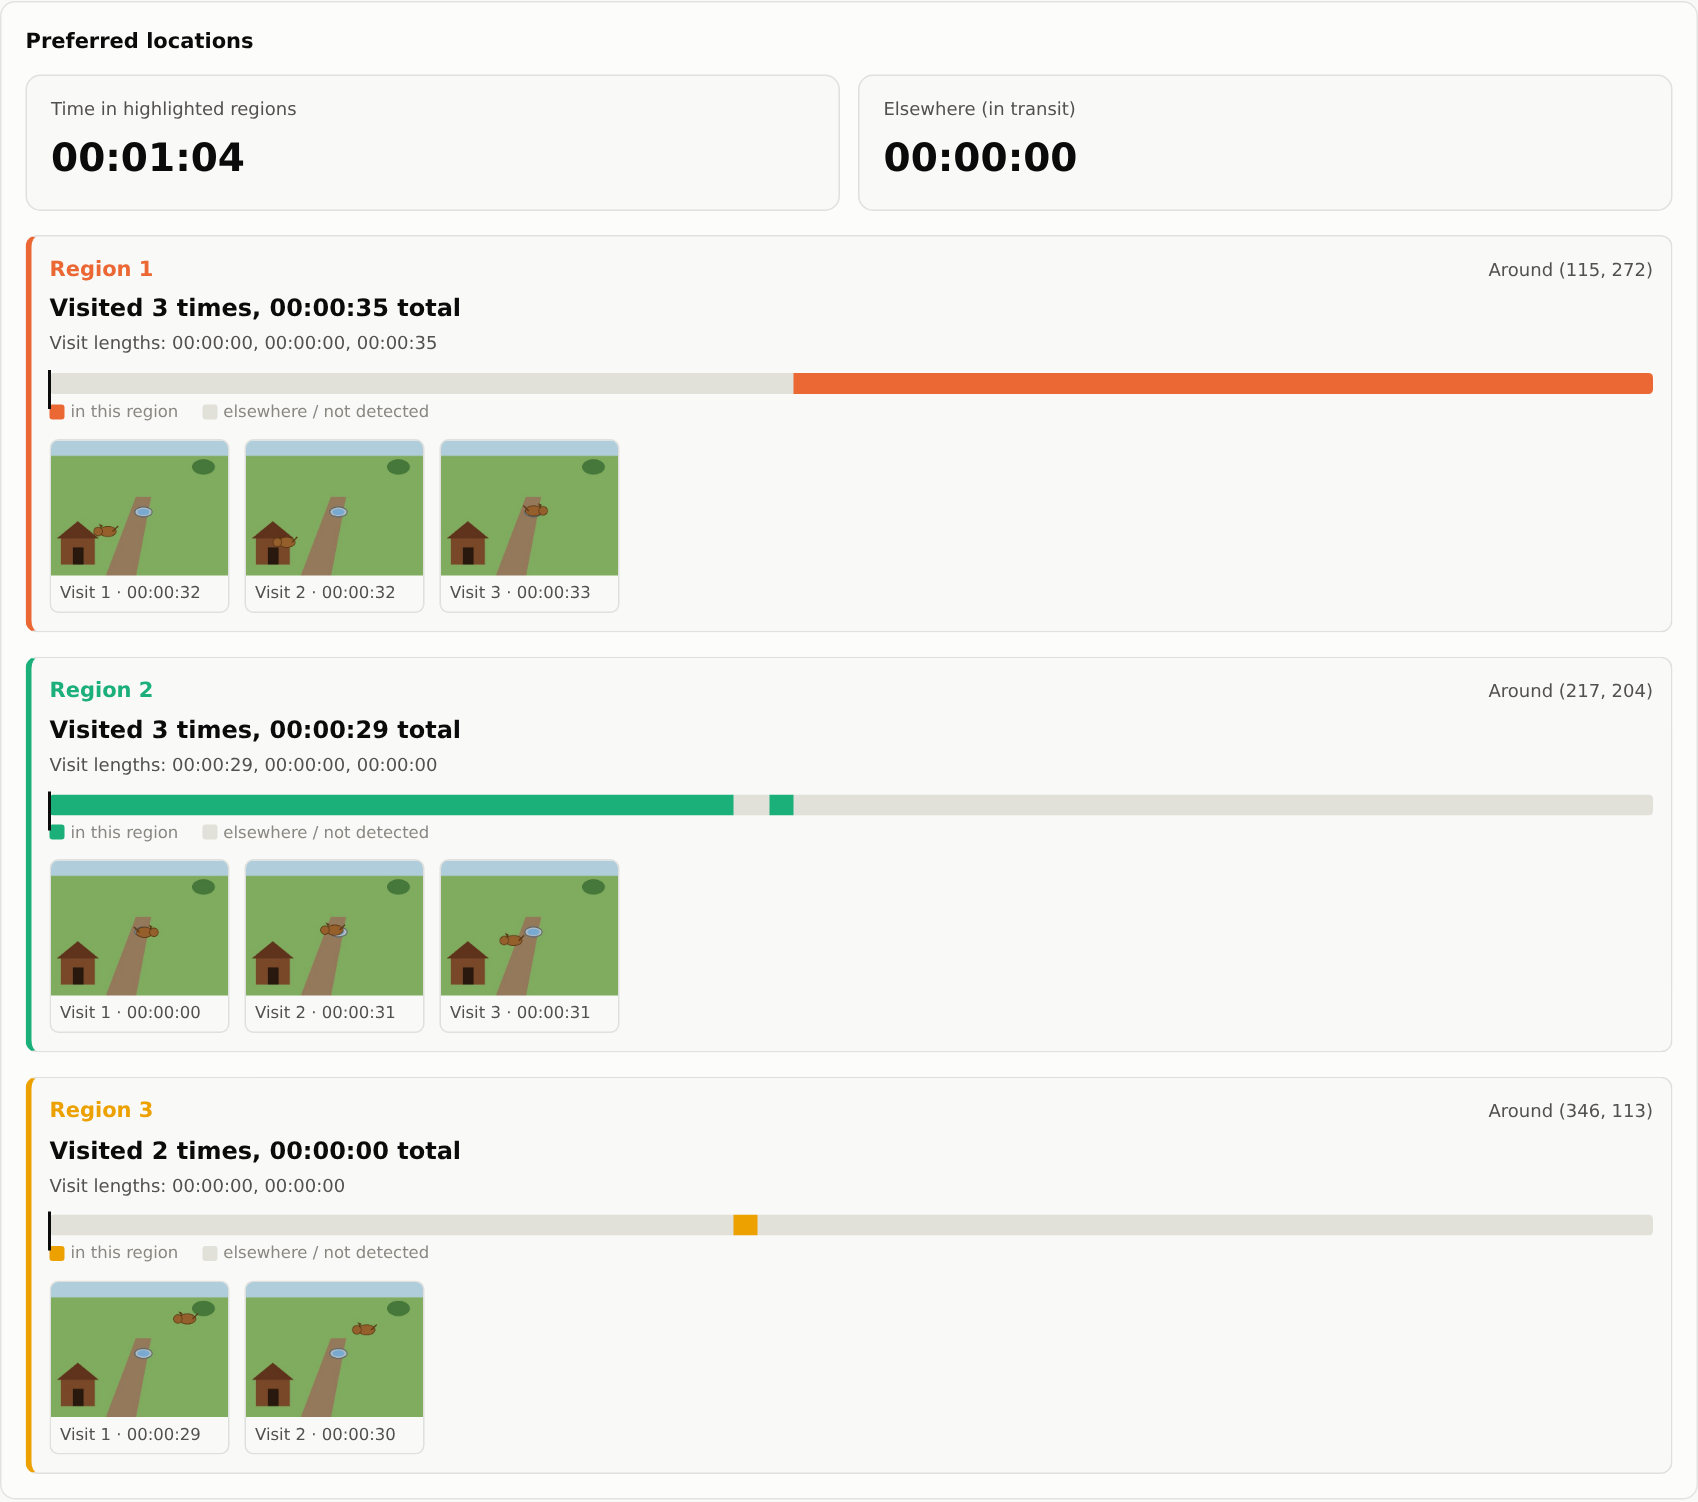
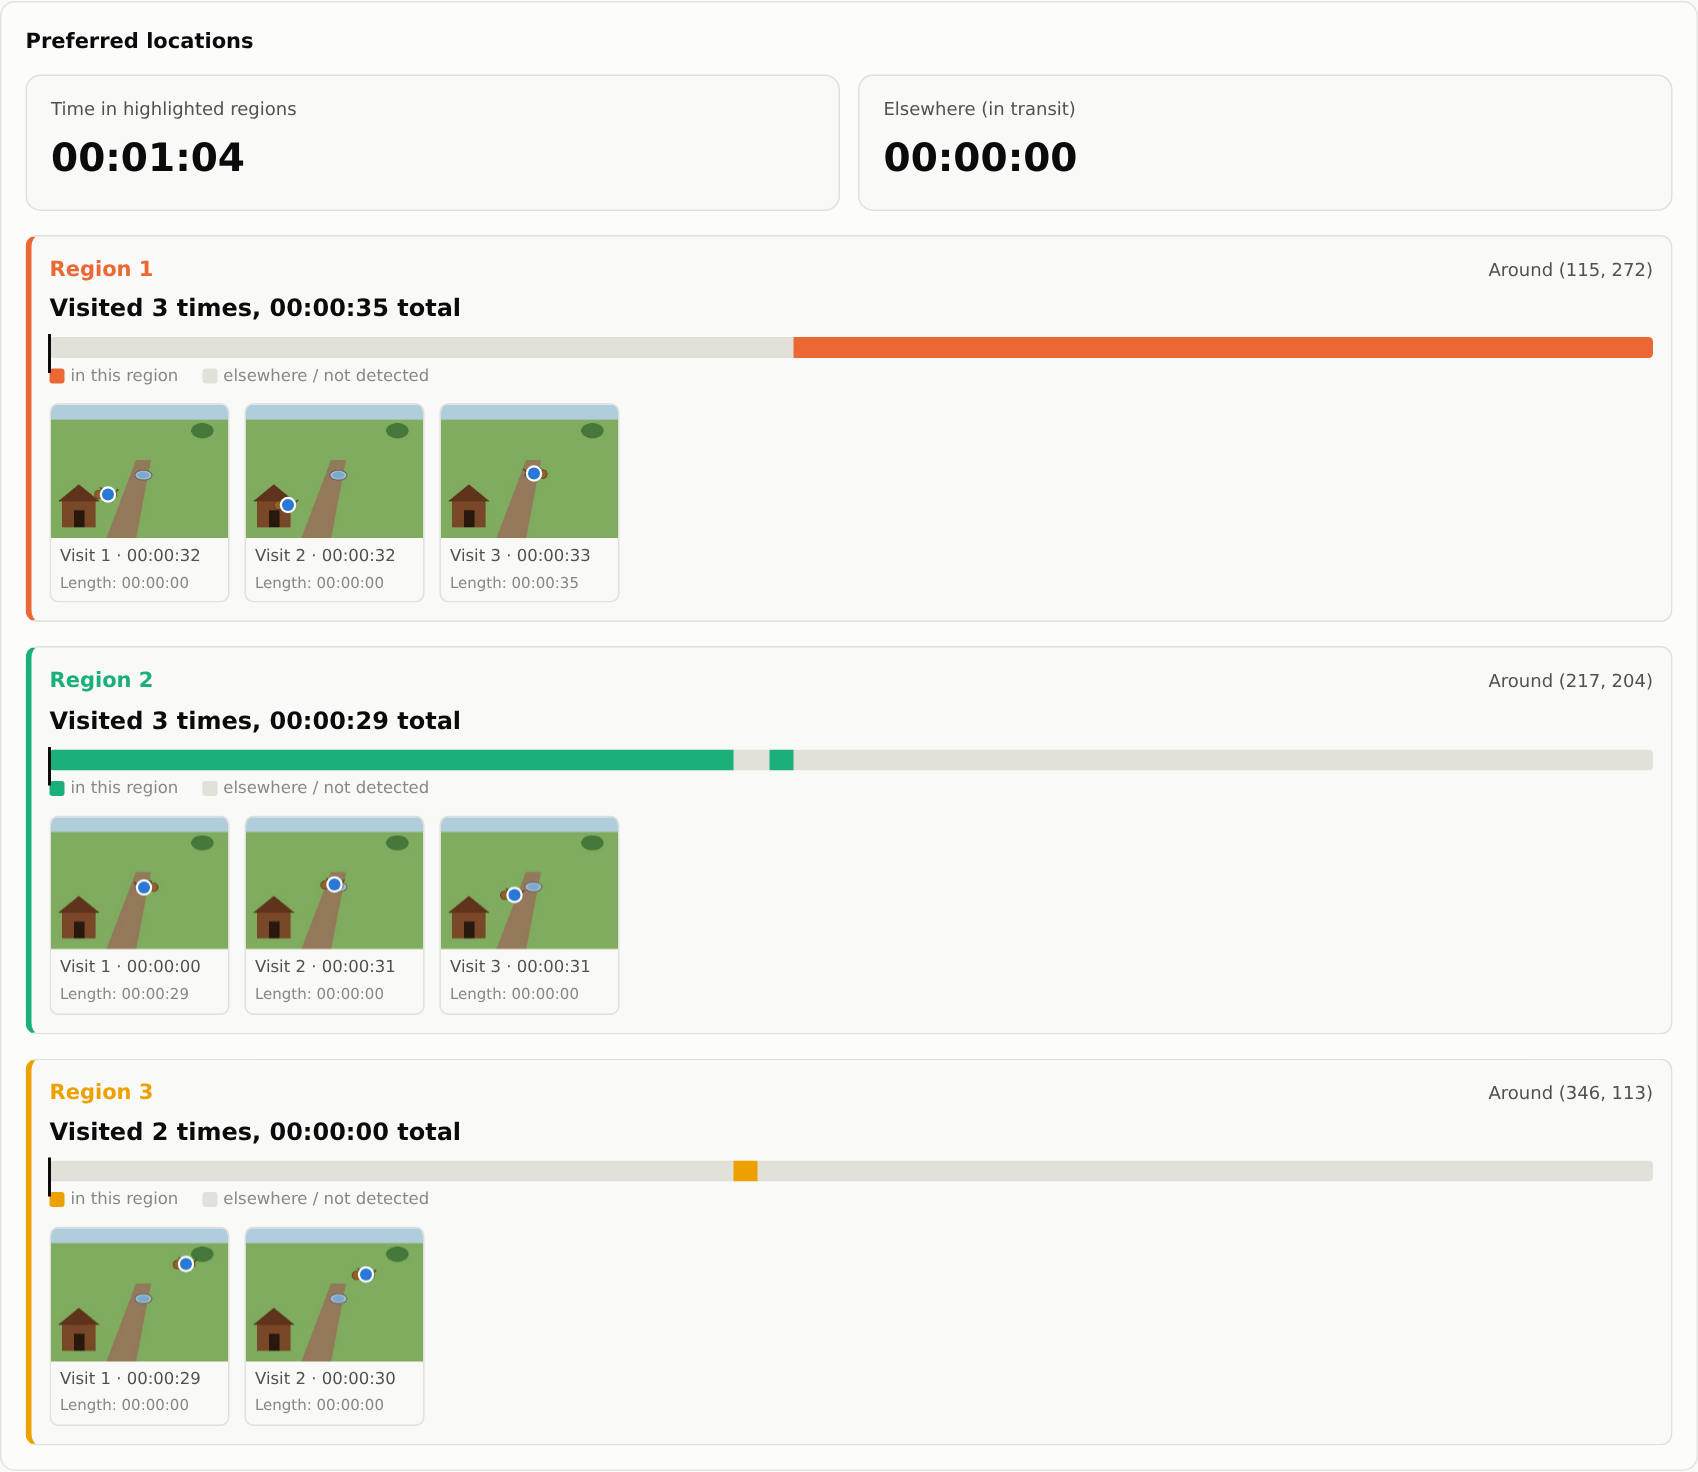
Move visit length onto each thumbnail and mark the dog's position on it
Replaced the single combined "Visit lengths: ..." line above each region's
thumbnail strip with a per-thumbnail caption (each thumbnail already shows
which visit and when it started; now also how long that visit lasted).

Each thumbnail also gets a dot at the dog's exact detected center, same
point used everywhere else (heatmap, frame browser). This needed switching
.thumb img from a fixed-height object-fit:cover crop to width:100%/
height:auto, matching the no-crop pattern already used for the heatmap and
frame-browser images -- percentage-based dot placement only lines up
correctly when the displayed image isn't cropped. The dot's positioning
context is a dedicated image-only wrapper, not the whole thumbnail card,
so it isn't computed against the caption text's height too.

diff --git a/dogtracker_pc/static/app.js b/dogtracker_pc/static/app.js
@@ -533,17 +533,47 @@
     renderKPIs();
   }
 
-  function thumb(imgSrc, captionText, onClick) {
+  // `det` (optional) is the representative detection for this thumbnail --
+  // when given, a dot is drawn at its center, the same point used for the
+  // heatmap and the frame browser's own center marker. `subText` (optional)
+  // is a second caption line, e.g. the visit's length.
+  function thumb(imgSrc, captionText, subText, det, onClick) {
     const wrap = document.createElement("div");
     wrap.className = "thumb";
+
+    // The dot's left/top percentages are resolved against this wrapper, so
+    // it has to contain only the image (not the captions below) or the dot
+    // would land relative to the whole card's height instead of the image's.
+    const imgWrap = document.createElement("div");
+    imgWrap.className = "thumb-image-wrap";
     const img = document.createElement("img");
     img.src = imgSrc;
     img.alt = captionText;
     img.loading = "lazy";
+    imgWrap.appendChild(img);
+
+    if (det) {
+      const dot = document.createElement("div");
+      dot.className = "thumb-dot";
+      const { frame_width, frame_height } = state.summary;
+      dot.style.left = `${(det.x / frame_width) * 100}%`;
+      dot.style.top = `${(det.y / frame_height) * 100}%`;
+      imgWrap.appendChild(dot);
+    }
+    wrap.appendChild(imgWrap);
+
     const caption = document.createElement("div");
     caption.className = "caption";
     caption.textContent = captionText;
-    wrap.append(img, caption);
+    wrap.appendChild(caption);
+
+    if (subText) {
+      const sub = document.createElement("div");
+      sub.className = "caption-sub";
+      sub.textContent = subText;
+      wrap.appendChild(sub);
+    }
+
     wrap.addEventListener("click", onClick);
     return wrap;
   }
@@ -641,13 +671,6 @@
         ? `Visited once, for ${formatElapsed(region.avg_duration_ms)}`
         : `Visited ${region.visit_count} times, ${formatElapsed(region.total_duration_ms)} total`;
 
-    const lengths = document.createElement("div");
-    lengths.className = "area-card-lengths";
-    lengths.textContent =
-      region.visits.length > 0
-        ? `Visit lengths: ${region.visits.map((v) => formatElapsed(v.duration_ms)).join(", ")}`
-        : "";
-
     // Mini presence ruler -- same idea as the main detection-presence ruler
     // under the frame browser, scoped to just this region: colored (in this
     // region's own color) where the dog was here, empty everywhere else
@@ -686,12 +709,14 @@
         thumb(
           `/frames/${encodeURIComponent(visit.representative_filename)}`,
           `Visit ${i + 1} · ${formatElapsed(elapsedOf(visit.start_ts))}`,
+          `Length: ${formatElapsed(visit.duration_ms)}`,
+          state.detections[visit.representative_index],
           () => setCurrentIndex(frameIndexForDetectionIndex(visit.representative_index))
         )
       )
     );
 
-    card.append(header, headline, lengths, rulerWrap, rulerLegend, strip);
+    card.append(header, headline, rulerWrap, rulerLegend, strip);
     return card;
   }
 

diff --git a/dogtracker_pc/static/style.css b/dogtracker_pc/static/style.css
@@ -465,15 +465,9 @@ header.top .folder {
   margin-top: 4px;
 }
 
-.area-card-lengths {
-  font-size: 12px;
-  color: var(--text-secondary);
-  margin: 4px 0 10px;
-  font-variant-numeric: tabular-nums;
-}
-
 .area-card .thumb-strip {
   padding-bottom: 0;
+  margin-top: 8px;
 }
 
 .area-ruler-wrap {
@@ -516,11 +510,33 @@ header.top .folder {
   background: var(--page);
 }
 
+.thumb-image-wrap {
+  position: relative;
+}
+
 .thumb img {
   width: 100%;
-  height: 90px;
-  object-fit: cover;
+  height: auto;
   display: block;
+}
+
+.thumb-dot {
+  position: absolute;
+  width: 8px;
+  height: 8px;
+  margin-left: -4px;
+  margin-top: -4px;
+  border-radius: 50%;
+  background: var(--accent);
+  box-shadow: 0 0 0 1.5px var(--surface-1);
+  pointer-events: none;
+}
+
+.thumb .caption-sub {
+  font-size: 10px;
+  color: var(--text-muted);
+  padding: 0 6px 4px;
+  font-variant-numeric: tabular-nums;
 }
 
 .thumb .caption {

diff --git a/README.md b/README.md
@@ -33,11 +33,13 @@ footage -- generated for illustration purposes, see below.)*
   `.dogtracker_cache/manual_regions.json` so they're still there next time
   you open the same folder. "Regions to highlight" goes down to 0 if you'd
   rather see only manually-drawn regions and no automatic ones. Per region:
-  how many times it was visited, the length of every individual visit, the
-  total time spent there, and its own clickable **presence timeline** (in
-  the region's color, with the same current-frame marker line the frame
-  browser's own ruler has) showing exactly when across the whole session
-  the dog was there vs elsewhere. A summary line splits total tracked time
+  how many times it was visited and the total time spent there, a
+  thumbnail per visit (marked with a dot at the dog's exact position and
+  captioned with that visit's own length), and its own clickable
+  **presence timeline** (in the region's color, with the same current-frame
+  marker line the frame browser's own ruler has) showing exactly when
+  across the whole session the dog was there vs elsewhere. A summary line
+  splits total tracked time
   into "in a highlighted region" vs. "elsewhere (in transit)" -- time spent
   moving between spots rather than dwelling in one of them.
 - **Movement path over time** -- a smooth spline through every detected
